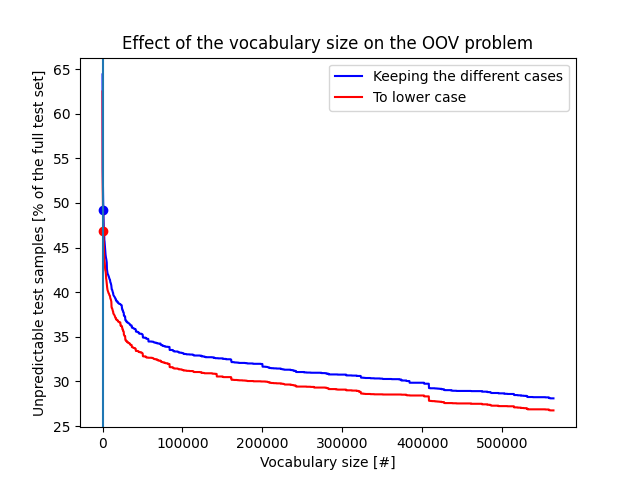
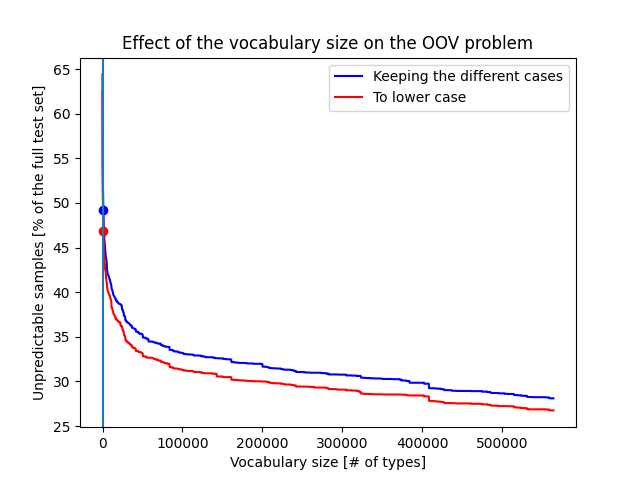
data_analytics: unk and oov

Changed region(s): [[0.0312, 0.1562, 0.0938, 0.875], [0.3438, 0.9375, 0.6562, 1.0]]

diff --git a/results/data_analytics.py b/results/data_analytics.py
@@ -1,0 +1,168 @@
+import argparse
+import os
+from collections import Counter
+import matplotlib.pyplot as plt
+import sys
+from tqdm import tqdm
+
+### TODO : REWRITE TGT BY REPLACING UNPREDICTABLE WORDS BY <UNK>
+def rewrite_tgt(voc_file, src_file, tgt_file):   
+
+    len_files = len(src_lines)
+    tot_nb = 0
+    impossible_nb = 0
+    for line_index in range(len_files):
+        src_tokens = set(src_lines[line_index].split())
+        if len(src_tokens) > 0:
+            tot_nb += 1
+            for token in set(tgt_lines[line_index].split()):
+                if token not in voc and token not in src_tokens:
+                    impossible_nb += 1
+                    break
+    return impossible_nb, tot_nb
+
+
+### OOV ###
+def oov(path_to_src, path_to_tgt, path_to_train):
+    ## GETTING SRC TEST
+    src_lines = []    
+    with open(path_to_src, 'r') as src_file:
+        src_lines = src_file.readlines()
+    src_lines_lower = [line.lower() for line in src_lines]
+    
+    ## BUILDING VOC FROM TRAIN
+    full_counter = []
+    with open(path_to_train) as train_file:
+        all_src = []
+        for line in train_file.readlines():
+            for word in line.strip().split():
+                all_src.append(word.strip())
+        full_counter = Counter(all_src)
+    most_commons = full_counter.most_common()
+    ## GETTING TGT TEST 
+    tgt_lines = []
+    with open(path_to_tgt, 'r') as tgt_file:    
+        tgt_lines = tgt_file.readlines()
+    tgt_lines_lower = [line.lower() for line in tgt_lines]    
+
+    ## GETTING OOV values for range of voc_sizes
+    voc_sizes = range(0, len(most_commons), 250)
+    #voc_sizes = range(0, 5000, 25)
+    #voc_sizes = [10**i for i in range(0,8)]
+    imposs_list = [0] * len(voc_sizes)
+    imposs_list_lower = [0] * len(voc_sizes)
+
+    for idx in tqdm(range(len(voc_sizes))):
+        voc_size = voc_sizes[idx]
+        voc = set(x[0] for x in most_commons[:voc_size])
+        impossible_nb, tot_nb = get_impossible_count(voc, src_lines, tgt_lines)
+        imposs_list[idx] = impossible_nb
+        voc2 = set([x.lower() for x in voc])
+        impossible_nb_lower, tot_nb = get_impossible_count(voc2, src_lines_lower, tgt_lines_lower)
+        imposs_list_lower[idx] = impossible_nb_lower
+
+    ## PLOTTING
+    our_voc_idx = [voc_sizes.index(1000)]
+    plt.plot(voc_sizes, [round((float(imp_nb)/float(tot_nb))*100, 2) for imp_nb in imposs_list], 'b', label="Keeping the different cases")    
+    plt.plot(voc_sizes[our_voc_idx[0]], [round((float(imposs_list[our_voc_idx[0]])/float(tot_nb))*100, 2)], 'bo')
+    plt.plot(voc_sizes, [round((float(imp_nb)/float(tot_nb))*100, 2) for imp_nb in imposs_list_lower], 'r', label="To lower case")
+    plt.plot(voc_sizes[our_voc_idx[0]], [round((float(imposs_list_lower[our_voc_idx[0]])/float(tot_nb))*100, 2)], 'ro')
+    #plt.xscale('log')
+    plt.axvline(1000)
+    #xticks_vals = list(range(0, 20000, 2500)) + [1000]
+    #plt.xticks(xticks_vals)
+    plt.title("Effect of the vocabulary size on the OOV problem")
+    plt.xlabel("Vocabulary size [# of types]")
+    plt.ylabel("Unpredictable samples [% of the full test set]")
+    plt.legend()
+    plt.savefig("Effect of the vocabulary size on the OOV problem.png")
+
+    print("Done")
+    #print(f"There are {impossible_nb}/{tot_nb} ({round((float(impossible_nb)/float(tot_nb))*100, 2)}%) samples impossible to predict due to OOV tokens")
+
+
+def get_impossible_count(voc, src_lines, tgt_lines):   
+    len_files = len(src_lines)
+    tot_nb = 0
+    impossible_nb = 0
+    for line_index in range(len_files):
+        src_tokens = set(src_lines[line_index].split())
+        if len(src_tokens) > 0:
+            tot_nb += 1
+            for token in set(tgt_lines[line_index].split()):
+                if token not in voc and token not in src_tokens:
+                    impossible_nb += 1
+                    break
+    return impossible_nb, tot_nb
+
+
+### UNK ###
+def unk(path_to_src, path_to_train):
+    ## Getting test src
+    src_lines = []    
+    with open(path_to_src, 'r') as src_file:
+        src_lines = src_file.readlines()
+    
+    ## Getting train data to build voc
+    full_counter = []
+    with open(path_to_train) as train_file:
+        all_src = []
+        for line in train_file.readlines():
+            for word in line.strip().split():
+                all_src.append(word.strip())
+        full_counter = Counter(all_src)
+    most_commons = full_counter.most_common()
+
+    voc = set(x[0] for x in most_commons[:1000])
+    ## Getting unk percentage for range of voc sizes
+    #voc_sizes = range(0, len(most_commons), 500)
+    voc_sizes = range(0, 5000, 25)
+    #voc_sizes = [10**i for i in range(0,7)]
+    mean_unk_perc_list = [0] * len(voc_sizes)
+    for idx in tqdm(range(len(voc_sizes))):
+        voc_size = voc_sizes[idx]
+        voc = set(x[0] for x in most_commons[:voc_size])
+        tmp_unk_prc = get_mean_unk_percentage(voc, src_lines)
+        mean_unk_perc_list[idx] = sum(tmp_unk_prc)/float(len(tmp_unk_prc))
+    
+    ## PLOTTING
+    our_voc_idx = voc_sizes.index(1000)
+    plt.plot(voc_sizes, mean_unk_perc_list, 'r')    
+    #plt.plot(voc_sizes[our_voc_idx], mean_unk_perc_list[our_voc_idx], 'bo')
+    #plt.xscale('log')
+    plt.axvline(1000)
+    plt.ylim(0, 100)
+    plt.title("Vocabulary size vs <unk> percentage in the input")
+    plt.xlabel("Vocabulary size [# of types]")
+    plt.ylabel("Mean percentage of <unk> [% of abstract buggy context]")
+    #plt.legend()
+    plt.savefig("Vocabulary size vs <unk> percentage in the input_zoom.png")
+
+    print("Done")
+    return 0
+
+def get_mean_unk_percentage(voc, src_lines):   
+    len_files = len(src_lines)
+    mean_unk = []
+    for line_index in range(len_files):
+        is_unk = [tok not in voc for tok in src_lines[line_index].split()]
+        unk_nb = sum(is_unk)
+        tot_nb = len(is_unk)
+        unk_perc = (float(unk_nb)/float(tot_nb))*100
+        mean_unk += [unk_perc]
+    return mean_unk #/float(len_files)
+
+if __name__=='__main__':
+    path_to_here = os.path.abspath(os.path.dirname(__file__))
+    #path_to_voc = os.path.join(path_to_here, "CodRep4/vocab.txt")
+    path_to_src = os.path.join(path_to_here, "Golden/src-test.txt")
+    path_to_tgt = os.path.join(path_to_here, "Golden/tgt-test.txt")
+    path_to_train = os.path.join(path_to_here, "Golden/src-train.txt")
+    parser = argparse.ArgumentParser()
+    parser.add_argument("-unk", action='store_true', default=False)
+    parser.add_argument("-oov", action='store_true', default=False)
+    args = parser.parse_args()
+    if args.oov:
+        oov(path_to_src, path_to_tgt, path_to_train)
+    elif args.unk:
+        unk(path_to_src, path_to_train)
